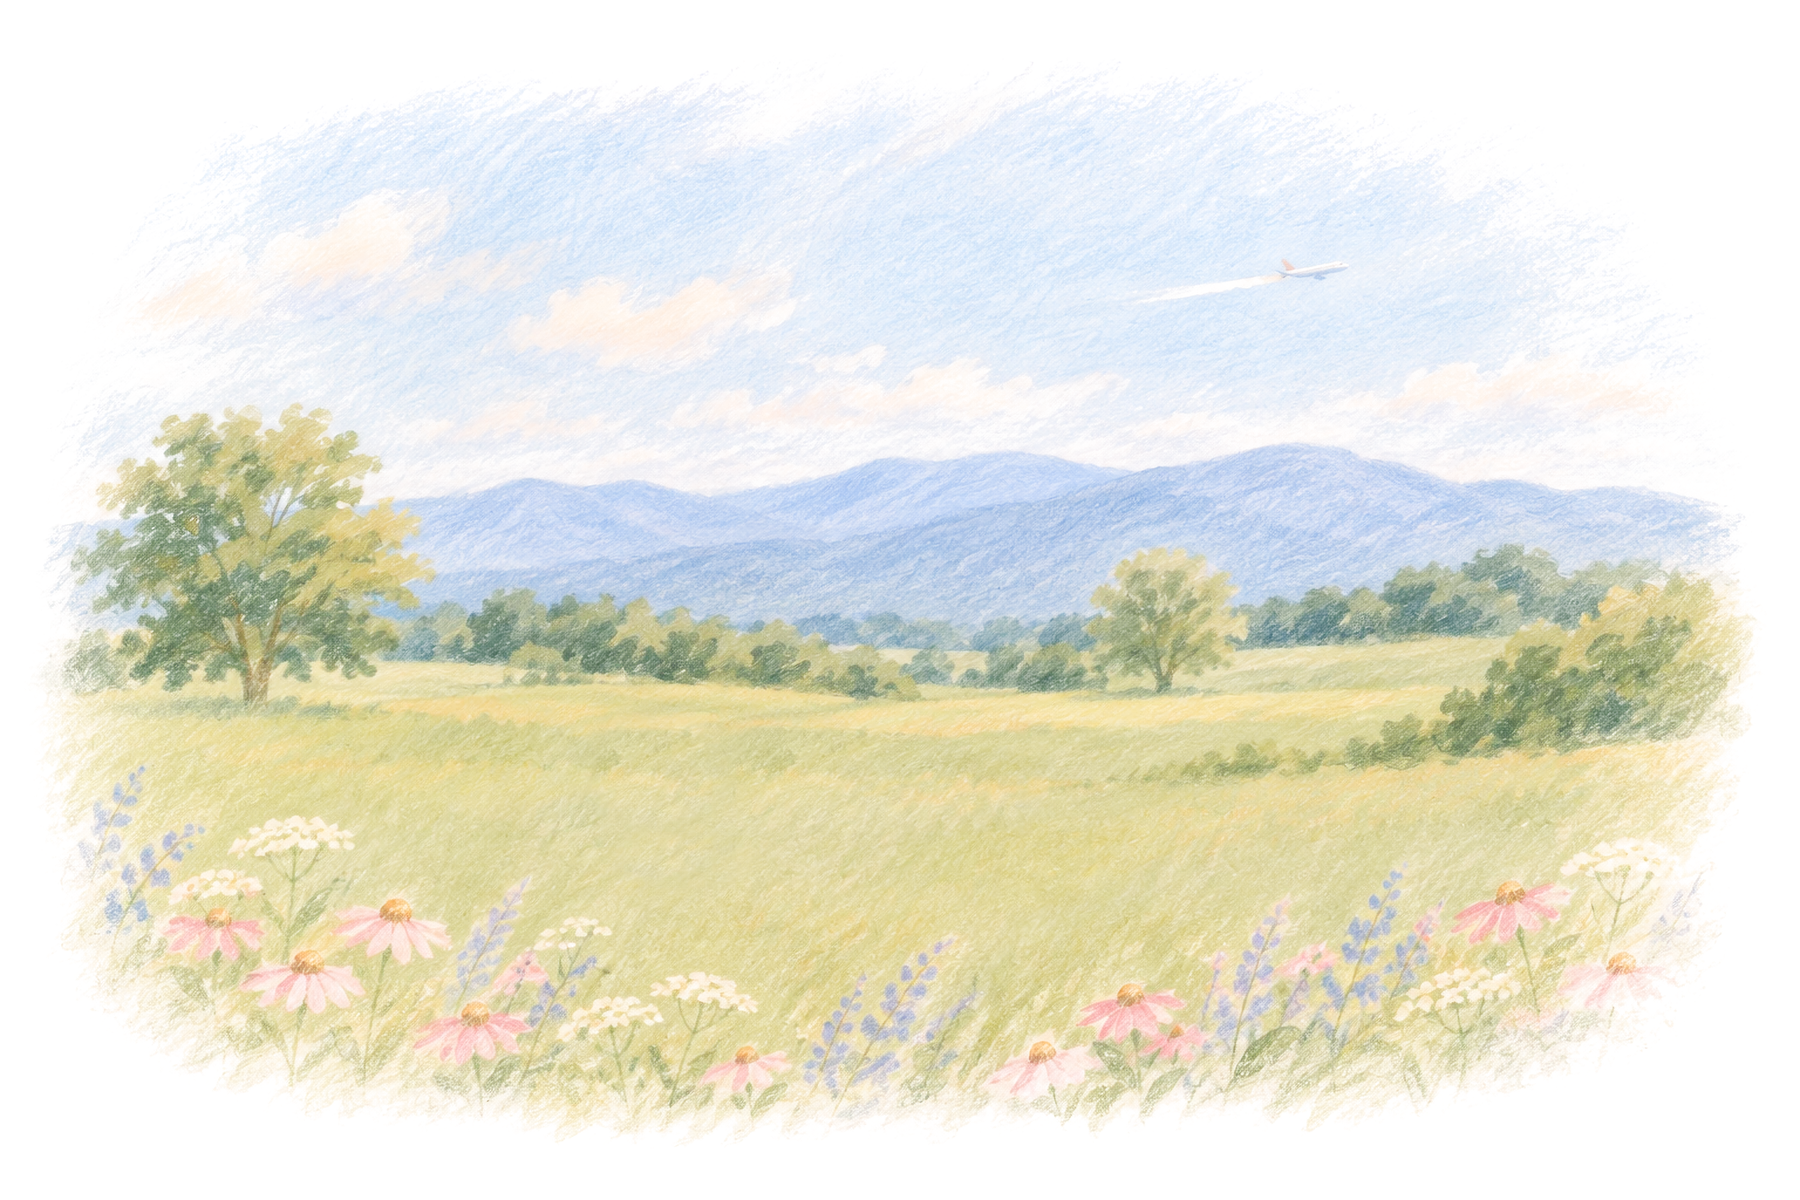
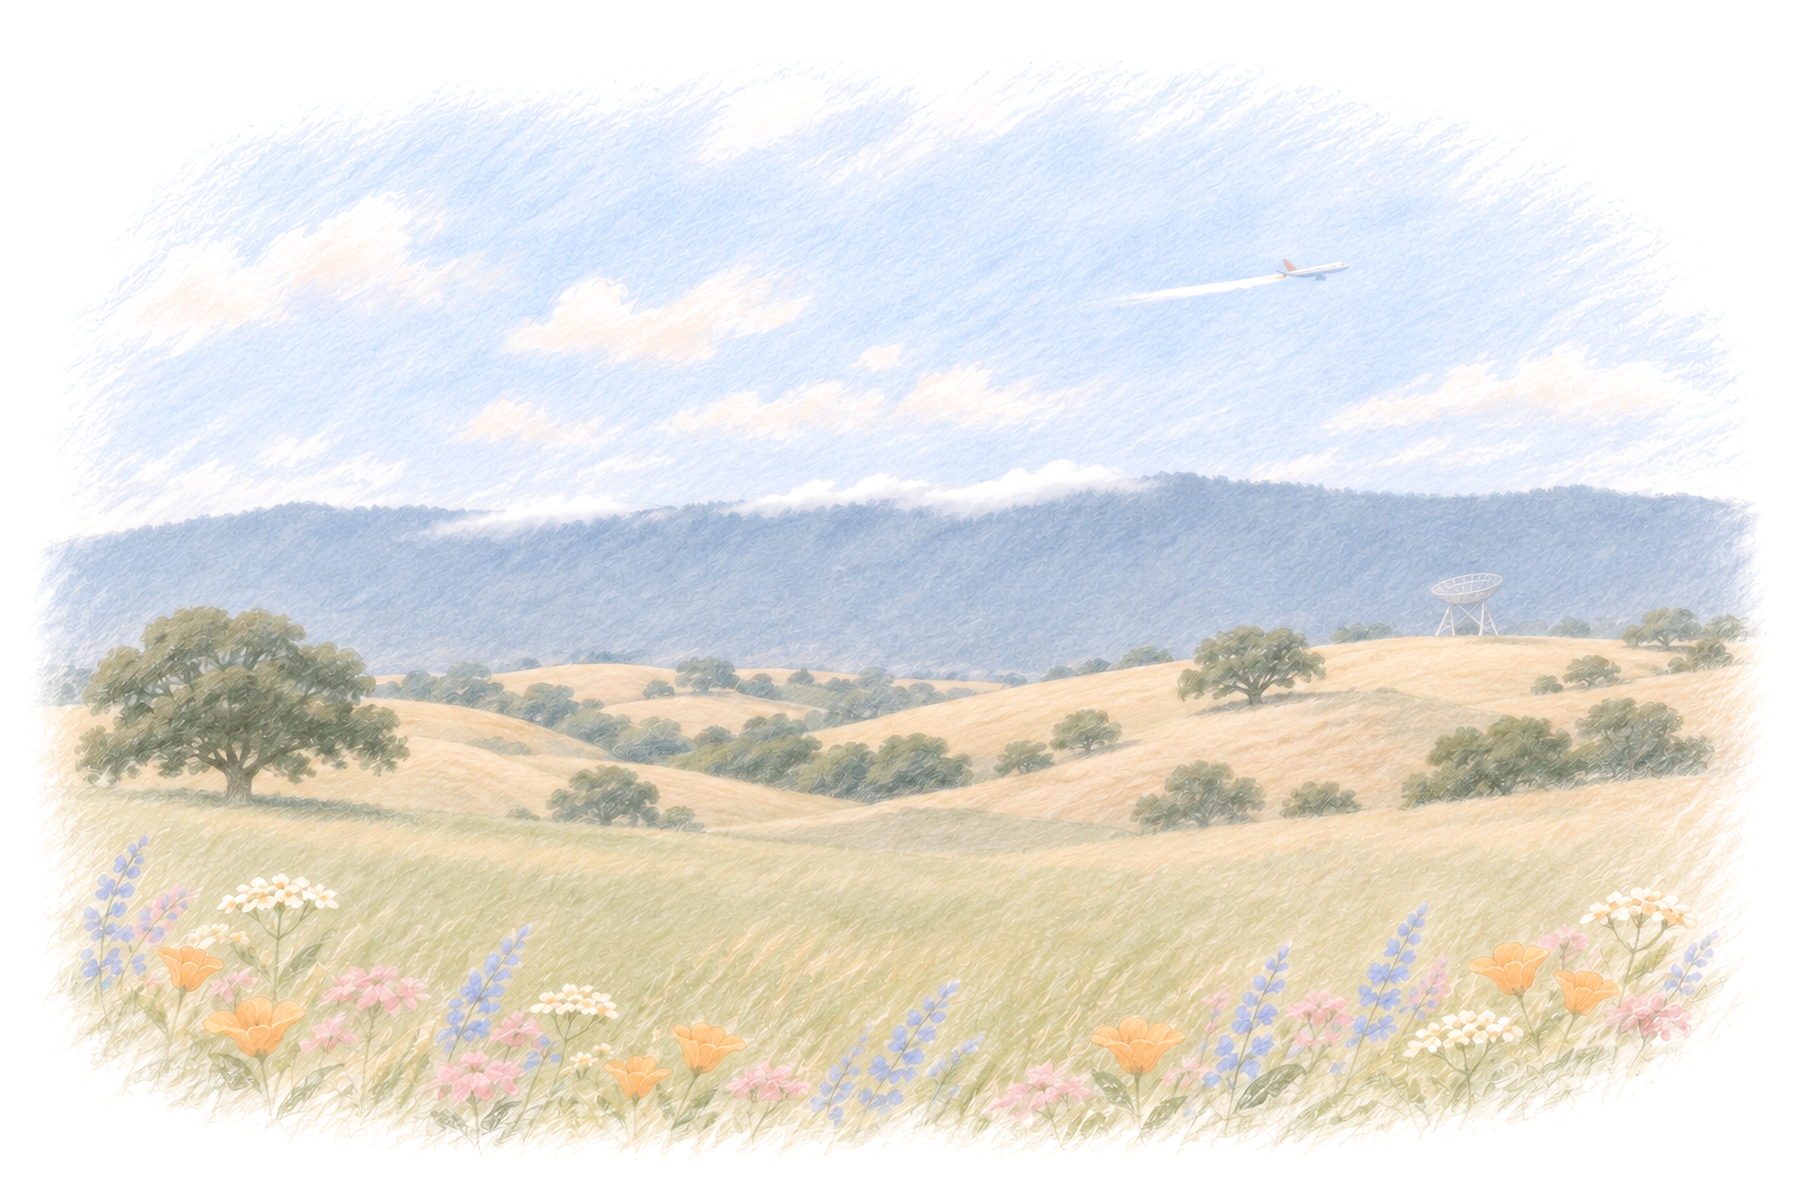
Set the home page in a new pencil drawing of golden foothills
- Home: a new coloured-pencil drawing replaces the Blue Ridge: a
  blue-grey ridge with fog spilling over it, gold hills with lone
  oaks, poppies and lupine, and a small radio dish on a hill to the
  right
- The drawing is placed so the dish is in view on every screen, from
  phones to ultrawide monitors, and its bottom is now a level pencil
  fade instead of sloping up at the corners
- Butterflies on phones: the address bar sliding in or out no longer
  replaces the whole flock mid-scroll, and landed ones scroll with
  the page instead of lagging behind it

diff --git a/assets/js/pencil.js b/assets/js/pencil.js
@@ -200,7 +200,6 @@
     var vw = 0, vh = 0, blocks = [];
     var flock = [];
     var mouse = { x: -9999, y: -9999 };
-    var lastScroll = window.scrollY;
     var deal = 0;
 
     function rand(a, b) { return a + Math.random() * (b - a); }
@@ -326,14 +325,24 @@
         b.target = pickTarget(b);
       }
       if (still.matches) {
-        flock.forEach(function (b) { b.mode = 'rest'; b.z = 0; b.heading = rand(-0.4, 0.4); draw(b, 0); });
+        flock.forEach(function (b) { land(b); b.z = 0; b.heading = rand(-0.4, 0.4); draw(b, 0); });
       }
+    }
+
+    // wholly inside the window, so one pinned to the page never widens it
+    function inside(b) {
+      var half = b.size / 2;
+      return b.x > half + 2 && b.x < vw - half - 2 && b.y > half + 2 && b.y < vh - half - 2;
     }
 
     function land(b) {
       b.mode = 'rest';
       b.clock = rand(REST[0], REST[1]);
       b.vx = b.vy = 0;
+      // Landed, it is on the paper: pinned to the page itself (see draw),
+      // so the browser carries it with the words as they scroll. Moving it
+      // from script each frame lagged behind a phone's fast scrolling.
+      b.docY = b.y + window.scrollY;
     }
 
     function takeOff(b, away) {
@@ -361,7 +370,8 @@
         b.z += (0 - b.z) * Math.min(1, dt * 4);
         // the page scrolled words under it, or it off the window: up it goes
         if (!free(b.x, b.y) || b.y < -b.size || b.y > vh + b.size) {
-          b.y = Math.min(Math.max(b.y, 40), vh - 40);
+          // from just past the window's edge, so it flies back in rather than appearing
+          b.y = Math.min(Math.max(b.y, -b.size * 0.6), vh + b.size * 0.6);
           takeOff(b, false);
         } else if (b.clock <= 0) takeOff(b, false);
         return;
@@ -371,7 +381,7 @@
       b.clock -= dt;
       var tx = b.target.x - b.x, ty = b.target.y - b.y, td = Math.hypot(tx, ty) || 1;
       if (td < 24 || !free(b.target.x, b.target.y)) {
-        if (td < 24 && b.clock <= 0 && free(b.x, b.y)) { land(b); return; }
+        if (td < 24 && b.clock <= 0 && free(b.x, b.y) && inside(b)) { land(b); return; }
         b.target = pickTarget(b);
         tx = b.target.x - b.x; ty = b.target.y - b.y; td = Math.hypot(tx, ty) || 1;
       }
@@ -414,10 +424,12 @@
       }
       b.z += (0.65 + Math.sin(t * 0.7 + b.seed) * 0.2 - b.z) * Math.min(1, dt * 1.5);
 
+      // kept in the window; one coming back in from past its edge may finish coming in
+      var y0 = b.y;
       b.x += b.vx * dt;
       b.y += b.vy * dt;
       b.x = Math.min(Math.max(b.x, EDGE), vw - EDGE);
-      b.y = Math.min(Math.max(b.y, 20), vh - 20);
+      b.y = Math.min(Math.max(b.y, Math.min(20, y0)), Math.max(vh - 20, y0));
 
       var want = Math.atan2(b.vy, b.vx) + Math.PI / 2;
       var d = Math.atan2(Math.sin(want - b.heading), Math.cos(want - b.heading));
@@ -453,7 +465,14 @@
       var lift = b.z;
       var scale = (0.86 + lift * 0.22) * (b.mode === 'fly' && b.glide <= 0 ? 1 + 0.02 * Math.sin(b.stroke * Math.PI * 2) : 1);
       var half = b.size / 2;
-      b.el.style.transform = 'translate3d(' + (b.x - half).toFixed(1) + 'px,' + (b.y - half).toFixed(1) + 'px,0)';
+      // in the air it holds its place in the window; landed, its place on the page
+      var pinned = b.mode === 'rest';
+      if (b.pinned !== pinned) {
+        b.pinned = pinned;
+        b.el.style.position = pinned ? 'absolute' : 'fixed';
+      }
+      var y = pinned ? b.docY : b.y;
+      b.el.style.transform = 'translate3d(' + (b.x - half).toFixed(1) + 'px,' + (y - half).toFixed(1) + 'px,0)';
       // its shadow on the paper: farther and softer the higher it flies
       var sx = 4 + lift * 26, sy = 8 + lift * 40, blur = 1.5 + lift * 5;
       b.el.style.filter = 'drop-shadow(' + sx.toFixed(1) + 'px ' + sy.toFixed(1) + 'px ' + blur.toFixed(1) + 'px var(--pencil-shadow))';
@@ -469,11 +488,10 @@
       var dt = Math.min(0.05, last ? t - last : 0.016);
       last = t;
       measure();
-      var sdy = window.scrollY - lastScroll;
-      lastScroll = window.scrollY;
+      var sy = window.scrollY;
       flock.forEach(function (b) {
         // landed, it sits on the paper and goes along with the page
-        if (sdy && b.mode === 'rest') b.y -= sdy;
+        if (b.mode === 'rest') b.y = b.docY - sy;
         step(b, dt, t);
         draw(b, t);
       });
@@ -494,8 +512,14 @@
     document.addEventListener('visibilitychange', function () {
       if (document.hidden) running = false; else start();
     });
-    var resizeTimer = 0;
+    // A phone reports a resize each time its address bar slides in or out
+    // as you scroll; starting a new flock then made them all vanish and
+    // reappear elsewhere mid-scroll. Only a new width starts a new flock;
+    // a new height is taken up by measure() on the next frame.
+    var resizeTimer = 0, flockWidth = root.clientWidth;
     window.addEventListener('resize', function () {
+      if (root.clientWidth === flockWidth) return;
+      flockWidth = root.clientWidth;
       clearTimeout(resizeTimer);
       resizeTimer = setTimeout(populate, 250);
     });

diff --git a/assets/css/pencil.css b/assets/css/pencil.css
@@ -334,15 +334,20 @@ html.pencil {
   height: var(--scene-h);
   overflow: hidden;
   pointer-events: none;
-  /* its top dissolves in the drawing's own ragged pencil, like its foot
-     (edge.webp is the foot of the drawing turned over) */
+  /* Its top and its foot dissolve in ragged pencil, level across the
+     window: foot.webp is a drawing's own foot, edge.webp that foot turned
+     over. The drawing's own foot curves up at its corners like an oval,
+     which showed as a sloping bottom wherever the drawing is moved
+     sideways, so that curve is kept below the scene (see the img). */
   --edge-h: clamp(4.5rem, 14vh, 10rem);
   -webkit-mask:
     url("/assets/img/pencil/edge.webp") 0 0 / 100% var(--edge-h) no-repeat,
-    linear-gradient(#000, #000) 0 var(--edge-h) / 100% 100% no-repeat;
+    linear-gradient(#000, #000) 0 var(--edge-h) / 100% calc(100% - 2 * var(--edge-h)) no-repeat,
+    url("/assets/img/pencil/foot.webp") 0 100% / 100% var(--edge-h) no-repeat;
   mask:
     url("/assets/img/pencil/edge.webp") 0 0 / 100% var(--edge-h) no-repeat,
-    linear-gradient(#000, #000) 0 var(--edge-h) / 100% 100% no-repeat;
+    linear-gradient(#000, #000) 0 var(--edge-h) / 100% calc(100% - 2 * var(--edge-h)) no-repeat,
+    url("/assets/img/pencil/foot.webp") 0 100% / 100% var(--edge-h) no-repeat;
   will-change: transform;
 }
 
@@ -358,15 +363,32 @@ html.pencil {
   user-select: none;
 }
 
-/* the stand-in was drawn as a vignette: blown up so its faded sides
-   and foot fall outside the window */
+/* The drawing is a vignette, blown up so its faded sides and foot fall
+   outside the window, and placed so the Dish on the right-hand hill
+   (its top 47% down the drawing, its right side 84% across) is in
+   view on every screen:
+   - its last 7% hangs below the scene, so the meadow runs at full
+     strength into the scene's level foot (the drawing's own foot is at
+     full strength to 93% down in the middle, 87% near its sides);
+   - as wide as the window or one and a half times its height, as
+     before, but never so wide that the sky is cropped down past the
+     Dish: its top stays below the ragged top edge. The drawing is 3:2
+     and hangs 7% low, so that width is 1.5 x the clear height /
+     (1 - 0.47 - 0.07). On very wide windows this leaves the drawing's
+     own soft sides on the paper.
+   - centred, unless that puts the Dish past 88% of the window (phones,
+     tablets held upright): then moved left just enough.
+   If the drawing changes, measure the Dish again and change 0.46 and
+   0.84 here. */
 .pencil-scene--standin img {
+  --w: min(max(100%, 150svh), calc((var(--scene-h) - var(--edge-h) - 1.5rem) * 1.5 / 0.46));
   position: absolute;
-  left: 50%;
   bottom: 0;
-  width: max(100%, 150svh);
+  /* 7% of its own height (a percentage in bottom would be the scene's) */
+  transform: translateY(7%);
+  left: min(calc((100% - var(--w)) / 2), max(calc(100% - var(--w)), calc(88% - var(--w) * 0.84)));
+  width: var(--w);
   height: auto;
-  transform: translateX(-50%);
 }
 
 html.pencil.has-scene .masthead--home {
